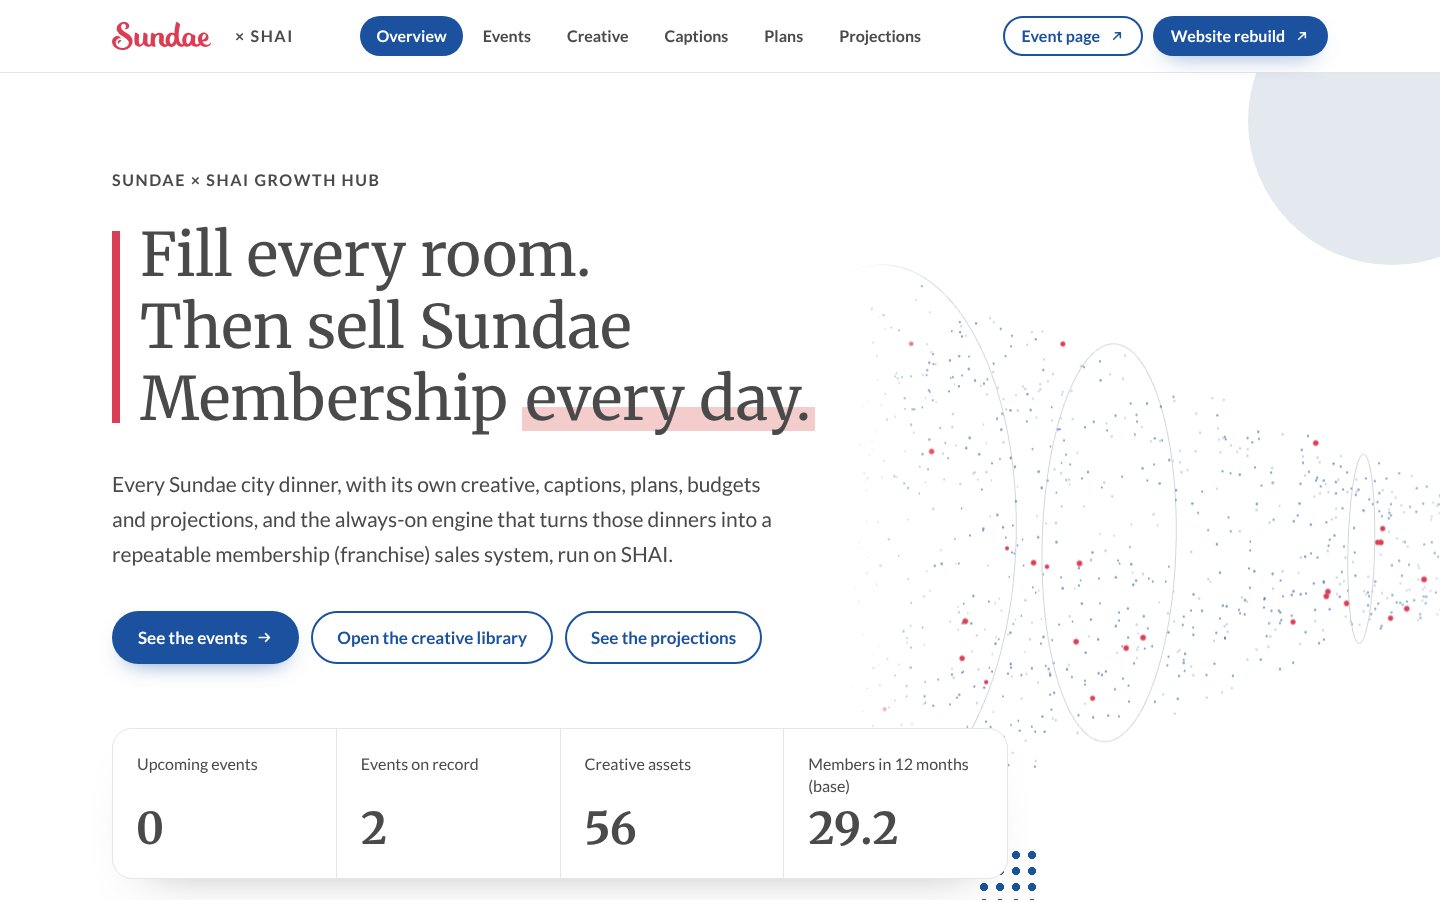
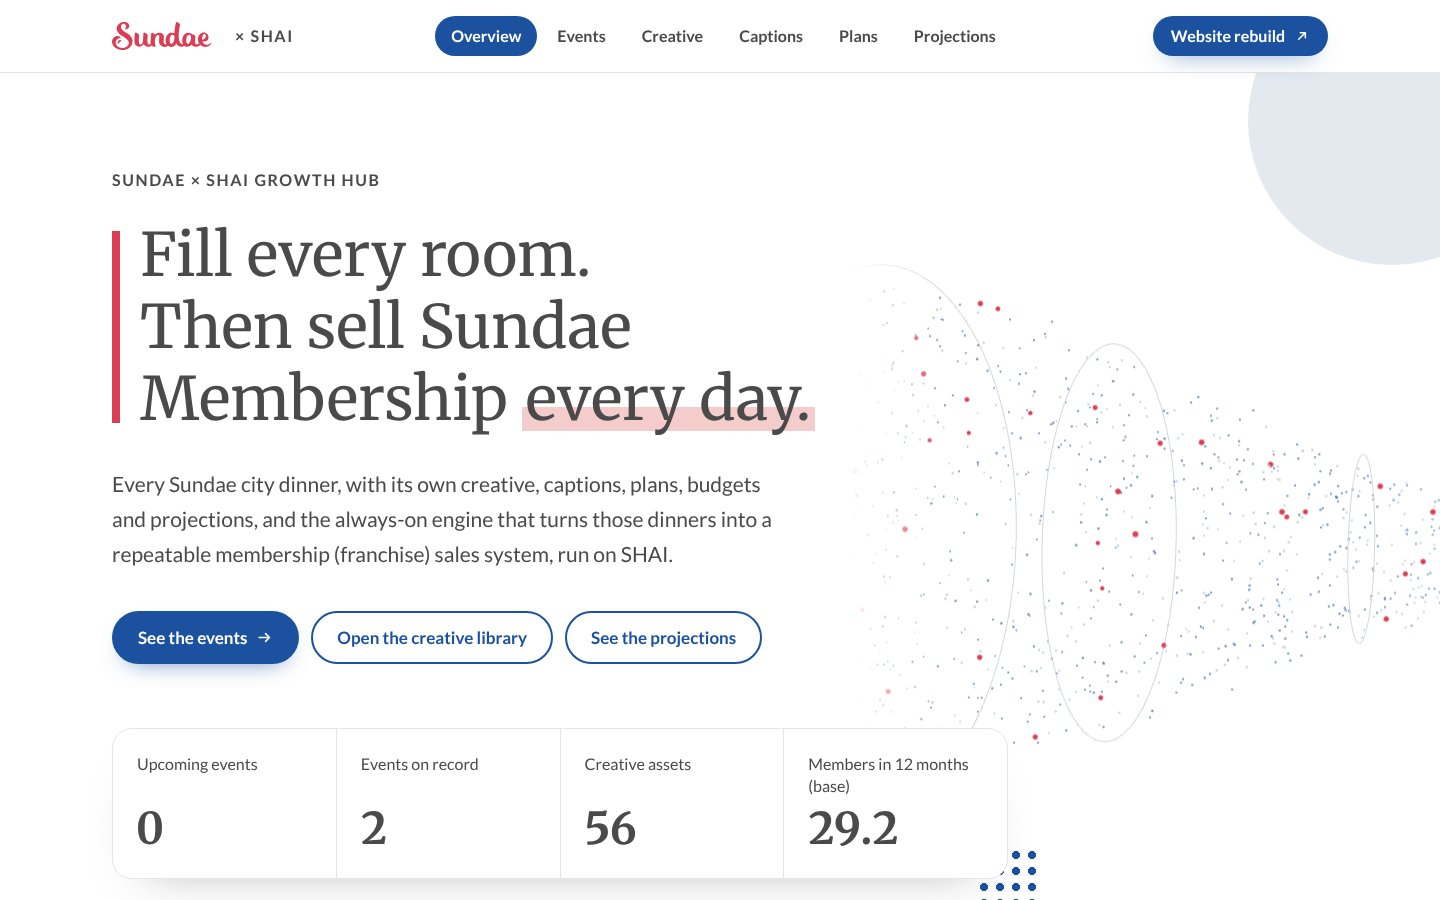
WIP: site review round two (library note, plan tag wrap, named table regions, add-event heading, change form names, per-event RSVP button, event bar landmark, fresh overview shot)
Claude-Session: https://claude.ai/code/session_01CMLqEovxq3nT6y22MUNcuu

diff --git a/src/app/creative/page.tsx b/src/app/creative/page.tsx
@@ -1,22 +1,35 @@
 import type { Metadata } from "next";
 import Image from "next/image";
 import Link from "next/link";
+import Script from "next/script";
 import CreativeLibrary from "@/components/CreativeLibrary";
 import { Icon } from "@/components/Icon";
-import { getCaptions, getCities, getEvents, getLibrary, getRequests, libraryCount } from "@/lib/content";
+import { getCaptions, getCities, getEvent, getEvents, getLibrary, getRequests, libraryCount } from "@/lib/content";
 import { apDate } from "@/lib/format";
 
 export const metadata: Metadata = { title: "Creative library" };
 
 // Before the hub went events-based this page was the Manhattan Beach library, so old shared links such as
-// /creative#flyers now land on the always-on set. While one of its sections is the URL's target, a note at the foot of
-// the screen points to the same section of each event's library (shown by the .lib-note rule in globals.css, no script).
-const KIND_NAMES = { images: "images", flyers: "flyers", videos: "videos", reels: "Reels" } as const;
+// /creative#flyers land on the always-on section of the same name. A note at the foot of the screen (bottom right from
+// 768px, clear of the first card in each grid) then points to that section of the Manhattan Beach library. It opens
+// only when the page is opened at one of those sections (an old link), never from the page's own section buttons,
+// because the script below runs once, after the page loads; it closes with Hide or the first move to another section.
+// Its link is a plain <a> because the script adds the section to it.
+const OLD = "manhattan-beach-2026-10-08"; // as in next.config.ts
+const NOTE_JS = `(() => {
+  const k = location.hash.slice(1), n = document.getElementById("old-link-note");
+  if (!n || !["images", "flyers", "videos", "reels"].includes(k)) return;
+  n.querySelector("a").hash = k; n.hidden = false;
+  const hide = () => { n.hidden = true; };
+  n.querySelector("button").addEventListener("click", hide);
+  addEventListener("hashchange", hide, { once: true });
+})();`;
 
 // The always-on membership creative, with each event's library one click away at the top.
 export default function Creative() {
   const events = getEvents().filter((e) => e.kind === "campaign");
   const cities = getCities();
+  const old = getEvent(OLD);
   return (
     <main className="mx-auto max-w-7xl px-5 md:px-8">
       <CreativeLibrary scope="brand" lib={getLibrary("brand")} base="/media" requests={getRequests("brand")}
@@ -41,16 +54,16 @@ export default function Creative() {
           )}
           <h2 className="display h-bar mt-16 text-[2rem] md:text-[2.5rem]">Always-on: Sundae Membership</h2>
         </>} />
-      {events.length > 0 && Object.entries(KIND_NAMES).map(([k, name]) => (
-        <aside key={k} data-for={k} aria-label={`Event ${name}`} className="lib-note fixed inset-x-4 bottom-4 z-40 flex-wrap items-center gap-x-5 gap-y-3 rounded-[1.25rem] border border-gray bg-white p-4 text-base leading-snug shadow-[0_24px_48px_-24px_rgba(74,74,74,.5)] md:inset-x-auto md:left-1/2 md:w-max md:max-w-[calc(100vw-4rem)] md:-translate-x-1/2 md:px-5">
-          <p className="min-w-0 flex-1 basis-60 md:max-w-sm">These are the always-on Sundae Membership {name}. Each event&apos;s {name} are in its own library.</p>
+      {old && (
+        <aside id="old-link-note" hidden aria-label={`${old.city} library`} className="fixed inset-x-4 bottom-4 z-40 flex flex-wrap items-center gap-x-5 gap-y-3 rounded-[1.25rem] border border-gray bg-white p-4 text-base leading-snug shadow-[0_24px_48px_-24px_rgba(74,74,74,.5)] md:inset-x-auto md:bottom-6 md:right-8 md:w-max md:max-w-[calc(100vw-4rem)] md:px-5">
+          <p className="min-w-0 flex-1 basis-60 md:max-w-sm">This link used to open the {old.city} library, which has moved to the event&apos;s page.</p>
           <div className="flex flex-wrap items-center gap-2.5">
-            {events.map((e) => <Link key={e.slug} href={`/events/${e.slug}/creative#${k}`} className="btn btn-blue btn-sm">{e.city} · {apDate(e.date, { year: false })} <Icon name="arrow-right" /></Link>)}
-            {/* a fragment that names no element: the section stops being the target, so the note hides and the page stays put */}
-            <a href="#note-hidden" className="link px-1.5">Hide</a>
+            <a href={`/events/${OLD}/creative`} className="btn btn-blue btn-sm">{old.city} library <Icon name="arrow-right" /></a>
+            <button type="button" className="link px-1.5">Hide</button>
           </div>
         </aside>
-      ))}
+      )}
+      <Script id="old-link-note-js">{NOTE_JS}</Script>
     </main>
   );
 }

diff --git a/src/components/Nav.tsx b/src/components/Nav.tsx
@@ -2,16 +2,27 @@
 import Link from "next/link";
 import Image from "next/image";
 import { usePathname } from "next/navigation";
-import { useState } from "react";
+import { useEffect, useState } from "react";
 import { LINKS } from "@/content/library";
+import { isUpcoming } from "@/lib/format";
 import { Icon } from "./Icon";
 
 const items = [["/", "Overview"], ["/events", "Events"], ["/creative", "Creative"], ["/captions", "Captions"], ["/plans/membership-organic", "Plans"], ["/projections", "Projections"]];
 export type NavLink = { href: string; title: string };
+export type NavEvent = NavLink & { date: string; rsvp?: string };
 
-export default function Nav({ plans, events }: { plans: NavLink[]; events: NavLink[] }) {
+export default function Nav({ plans, events, builtAt }: { plans: NavLink[]; events: NavEvent[]; builtAt: number }) {
   const path = usePathname();
   const [open, setOpen] = useState(false);
+  // The RSVP button follows the events, so it never points at a past dinner's form by default: on an event's pages it is
+  // that event's RSVP page (none if it has none); elsewhere it is the next upcoming event's (none if no upcoming event has
+  // one). "Upcoming" is worked out in the browser, like the other date-aware labels (first paint: build date). The visible
+  // label stays short so the header fits from 768px; its name and tooltip say which event.
+  const [now, setNow] = useState(builtAt);
+  useEffect(() => setNow(Date.now()), []);
+  const here = events.find((e) => path === e.href || path.startsWith(`${e.href}/`));
+  const ev = here ?? events.filter((e) => e.rsvp && isUpcoming(e.date, now)).sort((a, b) => a.date.localeCompare(b.date))[0];
+  const rsvp = ev?.rsvp ? { href: ev.rsvp, name: `RSVP page for ${ev.title}` } : null;
   const isOn = (href: string) => (href === "/" ? path === "/" : path.startsWith(href.split("/").slice(0, 2).join("/")));
   return (
     <header className="sticky top-0 z-50 border-b border-gray bg-white/95 backdrop-blur-xl">
@@ -27,7 +38,7 @@ export default function Nav({ plans, events }: { plans: NavLink[]; events: NavLi
           ))}
         </div>
         <div className="hidden items-center gap-2.5 md:flex">
-          <a href={LINKS.event} target="_blank" rel="noopener" className="btn btn-outline btn-sm">Event page <Icon name="external" /></a>
+          {rsvp && <a href={rsvp.href} target="_blank" rel="noopener" aria-label={rsvp.name} title={rsvp.name} className="btn btn-outline btn-sm">RSVP page <Icon name="external" /></a>}
           <a href={LINKS.rebuild} target="_blank" rel="noopener" className="btn btn-blue btn-sm">Website rebuild <Icon name="external" /></a>
           <button className="btn btn-outline btn-sm xl:hidden" onClick={() => setOpen(!open)} aria-expanded={open} aria-controls="mnav">{open ? "Close" : "Menu"}</button>
         </div>
@@ -45,7 +56,7 @@ export default function Nav({ plans, events }: { plans: NavLink[]; events: NavLi
               <span className="eyebrow px-3 pb-1">Membership plans</span>
               {plans.map((p) => <Link key={p.href} href={p.href} onClick={() => setOpen(false)} className="rounded-xl px-3 py-2 text-base hover:bg-mist">{p.title}</Link>)}
             </div>
-            <div className="mt-4 flex flex-wrap gap-2.5 md:hidden"><a href={LINKS.event} className="btn btn-outline btn-sm">Event page <Icon name="external" /></a><a href={LINKS.rebuild} className="btn btn-blue btn-sm">Website rebuild <Icon name="external" /></a></div>
+            <div className="mt-4 flex flex-wrap gap-2.5 md:hidden">{rsvp && <a href={rsvp.href} aria-label={rsvp.name} title={rsvp.name} className="btn btn-outline btn-sm">RSVP page <Icon name="external" /></a>}<a href={LINKS.rebuild} className="btn btn-blue btn-sm">Website rebuild <Icon name="external" /></a></div>
           </div>
         </div>
       )}

diff --git a/src/components/Charts.tsx b/src/components/Charts.tsx
@@ -75,12 +75,12 @@ function Legend({ series, bar }: { series: Series[]; bar?: boolean }) {
   );
 }
 
-function Table({ labels, series, fmt, decimals }: { labels: string[]; series: Series[]; fmt: (v: number) => string; decimals?: boolean }) {
+function Table({ title, labels, series, fmt, decimals }: { title: string; labels: string[]; series: Series[]; fmt: (v: number) => string; decimals?: boolean }) {
   // when a column holds decimals, show every value with one decimal so the column lines up (18.0, not 18)
   const one = (v: number) => v.toLocaleString("en-US", { minimumFractionDigits: 1, maximumFractionDigits: 1 });
   const f = (s: Series) => (decimals && s.values.some((v) => !Number.isInteger(v)) ? one : fmt);
   return (
-    <div className="scroll-x">
+    <div className="scroll-x" tabIndex={0} role="region" aria-label={`${title} table`}>
       <table className="dtable min-w-[520px]">
         <thead><tr><th>Month</th>{series.map((s) => <th key={s.name} className="!text-right">{s.name}</th>)}</tr></thead>
         <tbody>{labels.map((l, i) => <tr key={l}><td>{monthFull(l)}</td>{series.map((s) => <td key={s.name} className="text-right">{f(s)(s.values[i])}</td>)}</tr>)}</tbody>
@@ -144,7 +144,7 @@ export function LineChart({ title, sub, labels, series, format = "number", heigh
       <Head title={title} sub={sub} table={table} setTable={setTable} />
       {series.length > 1 && <div className="mb-4"><Legend series={series} /></div>}
       <div ref={box}>
-        {table ? <Table labels={labels} series={series} fmt={fmt.full} decimals={format === "number"} /> : (
+        {table ? <Table title={title} labels={labels} series={series} fmt={fmt.full} decimals={format === "number"} /> : (
           <div className="relative" style={{ height: H }}>
             <svg ref={svgRef} viewBox={`0 0 ${W} ${H}`} width="100%" height={H} className="tnum block touch-none" onPointerMove={onMove} onPointerLeave={() => setHover(null)} role="img" aria-label={`${title}. ${series.map((s) => `${s.name}: ${fmt.full(s.values[s.values.length - 1])} by ${monthFull(labels[labels.length - 1])}`).join("; ")}`}>
               {ticks.map((t, k) => (
@@ -190,7 +190,7 @@ export function StackedBars({ title, sub, labels, series, format = "number", hei
       <Head title={title} sub={sub} table={table} setTable={setTable} />
       <div className="mb-4"><Legend series={series} bar /></div>
       <div ref={box}>
-        {table ? <Table labels={labels} series={[...series, { name: "Total", color: INK, values: totals }]} fmt={fmt.full} decimals={format === "number"} /> : (
+        {table ? <Table title={title} labels={labels} series={[...series, { name: "Total", color: INK, values: totals }]} fmt={fmt.full} decimals={format === "number"} /> : (
           <div className="relative" style={{ height: H }}>
             <svg viewBox={`0 0 ${W} ${H}`} width="100%" height={H} className="tnum block" role="img" aria-label={`${title}. Total by ${monthFull(labels[labels.length - 1])}: ${fmt.full(totals[totals.length - 1])}`} onPointerLeave={() => setHover(null)}>
               {ticks.map((t, k) => <g key={t}><line x1={padL} x2={W - padR} y1={y(t)} y2={y(t)} stroke={k === 0 ? BASELINE : GRID} strokeWidth={k === 0 ? 1.5 : 1} /><text x={padL - 10} y={y(t)} textAnchor="end" dominantBaseline="middle" fontSize={FS} fill={INK}>{fmt.short(t)}</text></g>)}

diff --git a/src/lib/plan.ts b/src/lib/plan.ts
@@ -4,21 +4,35 @@ import { marked } from "marked";
 // - arrow glyphs are not in the Lato/Merriweather web subsets, so they render as a line icon that reads as "to";
 // - AP times ("7:30-7:35 p.m.", "10:30 p.m. +") and short dates ("Oct. 8") never split across lines;
 // - short code chips (SHAI agent names such as /ghl-voice-agent-builder) stay on one line;
-// - tables scroll inside their own box (with an edge shadow cue) instead of widening the page.
+// - tables scroll inside their own box (with an edge shadow cue) instead of widening the page. The box is a named,
+//   focusable region so the keyboard can scroll it too; its name is the heading the table sits under ("Run of show table"),
+//   numbered if a heading has more than one, so no two regions on a page share a name.
 const GLYPHS: Record<string, [string, string]> = { "→": ["arrow", "to"], "←": ["arrow-left", "from"], "↔": ["arrow-lr", "back and forth"] };
 // The text rules run only on the text between tags, never inside a tag or an attribute (a title or alt stays untouched).
 const polishText = (t: string) => t
   .replace(/[→←↔]/g, (g) => `<span class="ico ico-${GLYPHS[g][0]}" role="img" aria-label="${GLYPHS[g][1]}"></span>`)
   .replace(/\b\d{1,2}(?::\d{2})?(?:-\d{1,2}(?::\d{2})?)? [ap]\.m\.(?: \+)?/g, (m) => `<span class="nw">${m}</span>`)
   .replace(/\b(Jan|Feb|Aug|Sept|Oct|Nov|Dec)\. (\d{1,2})\b/g, "$1.&nbsp;$2");
+// A heading's text for an attribute: arrow icons read as their label, other tags and the section number ("5. ") dropped,
+// entities left escaped.
+const headingText = (h: string) => h.replace(/<span class="ico[^"]*" role="img" aria-label="([^"]*)"><\/span>/g, " $1 ").replace(/<[^>]*>/g, "").replace(/\s+/g, " ").trim().replace(/^\d+(\.\d+)*\.? /, "");
+function wrapTables(html: string) {
+  let heading = "", n = 0;
+  const used = new Map<string, number>();
+  return html.replace(/<h[2-4][^>]*>([\s\S]*?)<\/h[2-4]>|<table>/g, (m, h?: string) => {
+    if (h !== undefined) { heading = headingText(h); return m; }
+    const base = heading ? `${heading} table` : `Table ${++n}`;
+    const k = (used.get(base) ?? 0) + 1;
+    used.set(base, k);
+    return `<div class="scroll-x table-scroll" tabindex="0" role="region" aria-label="${k > 1 ? `${base} ${k}` : base}"><table>`;
+  }).replace(/<\/table>/g, "</table></div>");
+}
 function polish(html: string) {
-  return html
+  return wrapTables(html
     .split(/(<[^>]*>)/)
     .map((part, i) => (i % 2 ? part : polishText(part)))
     .join("")
-    .replace(/(?<!<pre>)<code>([^<\s]{1,32})<\/code>/g, '<code class="nw">$1</code>')
-    .replace(/<table>/g, '<div class="scroll-x table-scroll"><table>')
-    .replace(/<\/table>/g, "</table></div>");
+    .replace(/(?<!<pre>)<code>([^<\s]{1,32})<\/code>/g, '<code class="nw">$1</code>'));
 }
 
 // A line that opens with a bold label ("**When:** …") starts on its own line instead of running on from the previous one

diff --git a/src/components/ChangeBox.tsx b/src/components/ChangeBox.tsx
@@ -6,6 +6,8 @@ import { Icon } from "./Icon";
 // workflow in GitHub; the workflow edits this asset's source, re-renders it, checks it against the brand rules and
 // pushes, and the site redeploys with the new file (an update) or a new card beside this one (a variation).
 type Mode = "update" | "variant";
+// The form's name carries the asset's kind and id ("Meet your host, image 02"), since an image and a video can share a title
+const KIND: Record<string, string> = { images: "image", flyers: "flyer", videos: "video", reels: "Reel" };
 // "sent" keeps the mode the request went out with, so the confirmation stays right if the radio is changed afterwards
 type State = { kind: "idle" | "sending" } | { kind: "sent"; id: string; mode: Mode } | { kind: "error"; msg: string; offline?: boolean };
 
@@ -17,6 +19,7 @@ export default function ChangeBox({ asset, title, video = false }: { asset: stri
   const [st, setSt] = useState<State>({ kind: "idle" });
   const [copied, setCopied] = useState(false);
   const busy = st.kind === "sending";
+  const [kind, id] = asset.split("/").slice(-2);
 
   async function send(e: React.FormEvent) {
     e.preventDefault();
@@ -36,7 +39,7 @@ export default function ChangeBox({ asset, title, video = false }: { asset: stri
   };
 
   return (
-    <form onSubmit={send} className="border-t border-gray bg-mist px-6 pb-6 pt-5" aria-label={`Request a change to ${title}`}>
+    <form onSubmit={send} className="border-t border-gray bg-mist px-6 pb-6 pt-5" aria-label={`Request a change to ${title}, ${KIND[kind] ?? kind} ${id}`}>
       <label htmlFor={`${uid}-t`} className="text-base font-bold">Request a change</label>
       {/* three rows for videos: their longer example wraps to three lines in the narrow Reel cards (768-1279px) */}
       <textarea id={`${uid}-t`} value={text} onChange={(e) => setText(e.target.value)} rows={video ? 3 : 2} maxLength={500} required minLength={3}

diff --git a/src/app/globals.css b/src/app/globals.css
@@ -140,11 +140,9 @@ html.lenis, html.lenis body { height: auto; }
 .prose-plan :where(pre code) { background: transparent; border: 0; padding: 0; font-weight: 400; font-size: 1rem; }
 .prose-plan :where(hr) { border-top-width: 1px; }
 
-/* /creative: the note for old shared links into a library section (src/app/creative/page.tsx), shown only while that
-   section is the URL's target. Unlayered, so it wins over the note's own Tailwind classes. */
-.lib-note { display: none; }
-body:has(#images:target) .lib-note[data-for="images"], body:has(#flyers:target) .lib-note[data-for="flyers"],
-body:has(#videos:target) .lib-note[data-for="videos"], body:has(#reels:target) .lib-note[data-for="reels"] { display: flex; }
+/* /creative: while the old-link note is open (src/app/creative/page.tsx), the footer gets room so the note never covers it */
+body:has(#old-link-note:not([hidden])) footer { padding-bottom: 10rem; }
+@media (min-width: 768px) { body:has(#old-link-note:not([hidden])) footer { padding-bottom: 6.5rem; } }
 
-a:focus-visible, button:focus-visible, input:focus-visible, select:focus-visible, textarea:focus-visible, summary:focus-visible { outline: 3px solid var(--color-blue); outline-offset: 3px; }
+a:focus-visible, button:focus-visible, input:focus-visible, select:focus-visible, textarea:focus-visible, summary:focus-visible, .scroll-x:focus-visible { outline: 3px solid var(--color-blue); outline-offset: 3px; }
 @media (prefers-reduced-motion: reduce) { [data-reveal], [data-stagger] > * { opacity: 1 !important; transform: none !important; } }

diff --git a/src/components/NewEventSteps.tsx b/src/components/NewEventSteps.tsx
@@ -1,4 +1,5 @@
 // How a new event gets its page: shown on the Events page (and as the empty state when nothing is booked).
+// It is its own section on both pages that show it, so its heading is an h2 (id "add-event", for the section's label).
 export default function NewEventSteps({ compact = false }: { compact?: boolean }) {
   const steps: [string, string][] = [
     ["Ask for a new event", "In Sundae's Claude workspace, say “New Sundae event” with the date and the city (the venue and start time too, if they're set). Claude asks only for what's missing."],
@@ -9,7 +10,7 @@ export default function NewEventSteps({ compact = false }: { compact?: boolean }
     <div className={`card-mist grid gap-8 p-8 md:p-12 ${compact ? "" : "lg:grid-cols-[1fr_1.6fr]"}`}>
       <div>
         <p className="eyebrow">Adding an event</p>
-        <h3 className="display h-bar mt-4 text-[1.75rem] md:text-[2.125rem]">Give a date and a city. The page builds itself.</h3>
+        <h2 id="add-event" className="display h-bar mt-4 text-[1.75rem] md:text-[2.125rem]">Give a date and a city. The page builds itself.</h2>
       </div>
       <ol className="grid gap-6">
         {steps.map(([t, d], i) => (

diff --git a/src/app/projections/page.tsx b/src/app/projections/page.tsx
@@ -68,7 +68,7 @@ export default function Projections() {
           {KS_PHONE.map((k) => <ScenarioCard key={k} k={k} sub={`${money(P.engine[k].assumptions.budget)} a month in ads`} rows={sumRows.map(([l, key, f]) => [l, f(P.engine[k].summary[key] as number)])} />)}
           <p className="text-base leading-relaxed">{REV_NOTE}</p>
         </div>
-        <div className="card scroll-x mt-6 hidden p-6 md:block md:p-7">
+        <div className="card scroll-x mt-6 hidden p-6 md:block md:p-7" tabIndex={0} role="region" aria-label="12-month summary by scenario">
           <table className="dtable min-w-[640px]">
             <thead><tr><th>12-month summary</th>{KS.map((k) => <th key={k} className="!text-right"><span className="inline-flex items-center gap-2"><Key k={k} />{SCENARIO[k].name}</span><span className="block font-normal">{money(P.engine[k].assumptions.budget)} a month</span></th>)}</tr></thead>
             <tbody>{sumRows.map(([l, key, f]) => <tr key={l}><td>{l}</td>{KS.map((k) => <td key={k} className={`text-right ${k === "base" ? "font-bold" : ""}`}>{f(P.engine[k].summary[key] as number)}</td>)}</tr>)}</tbody>

diff --git a/src/app/events/[slug]/projections/page.tsx b/src/app/events/[slug]/projections/page.tsx
@@ -39,7 +39,7 @@ export default async function EventProjectionsPage({ params }: { params: Promise
             <div className="grid gap-4 md:hidden">
               {KS_PHONE.map((k) => <ScenarioCard key={k} k={k} rows={ROWS.map(([l, key, f]) => [l, f(pj.scenarios[k][key])])} />)}
             </div>
-            <div className="card scroll-x hidden p-6 md:block md:p-7">
+            <div className="card scroll-x hidden p-6 md:block md:p-7" tabIndex={0} role="region" aria-label="Three scenarios table">
               <table className="dtable min-w-[560px]">
                 <thead><tr><th />{KS.map((k) => <th key={k} className="!text-right"><span className="inline-flex items-center gap-2"><Key k={k} />{SCENARIO[k].name}</span></th>)}</tr></thead>
                 <tbody>{ROWS.map(([l, key, f]) => <tr key={l}><td>{l}</td>{KS.map((k) => <td key={k} className={`text-right ${k === "base" ? "font-bold" : ""}`}>{f(pj.scenarios[k][key])}</td>)}</tr>)}</tbody>

diff --git a/src/app/layout.tsx b/src/app/layout.tsx
@@ -23,7 +23,8 @@ export default function RootLayout({ children }: { children: React.ReactNode }) 
     <html lang="en" className={`${merriweather.variable} ${lato.variable}`}>
       <body className="min-h-screen">
         <ScrollFx />
-        <Nav plans={getBrandPlans().map((p) => ({ href: `/plans/${p.slug}`, title: p.title }))} events={getEvents().map((e) => ({ href: `/events/${e.slug}`, title: `${e.city} · ${apDate(e.date)}` }))} />
+        <Nav plans={getBrandPlans().map((p) => ({ href: `/plans/${p.slug}`, title: p.title }))} builtAt={Date.now()}
+          events={getEvents().map((e) => ({ href: `/events/${e.slug}`, title: `${e.city} · ${apDate(e.date)}`, date: e.date, rsvp: e.rsvp }))} />
         {children}
         <footer className="mt-28 border-t border-gray bg-mist">
           <div className="mx-auto flex max-w-7xl flex-wrap items-start justify-between gap-x-10 gap-y-3 px-5 py-12 text-base leading-relaxed md:px-8">

diff --git a/src/components/Calculator.tsx b/src/components/Calculator.tsx
@@ -79,7 +79,8 @@ export default function Calculator() {
           ))}
         </div>
         <LineChart title="Cumulative members — your inputs" sub="Signed Sundae Members, by month" labels={MONTHS} series={[{ name: "Your scenario", color: SERIES.blue, values: r.rows.map((x) => +x.cum.toFixed(1)) }]} />
-        <div className="card scroll-x p-6 md:p-7">
+        {/* scrolls sideways on phones, so it is a named, focusable region the keyboard can scroll */}
+        <div className="card scroll-x p-6 md:p-7" tabIndex={0} role="region" aria-label="Month-by-month results for your inputs">
           <table className="dtable min-w-[640px]">
             <thead><tr>{["Month", "Leads", "Per day", "Calls held", "FDDs", "Signed", "Members", "Revenue (cumulative)"].map((h) => <th key={h} className="!text-right first:!text-left last:!pr-0">{h}</th>)}</tr></thead>
             <tbody>{r.rows.map((x) => (

diff --git a/src/app/events/[slug]/layout.tsx b/src/app/events/[slug]/layout.tsx
@@ -17,7 +17,7 @@ export default async function EventLayout({ children, params }: { children: Reac
   const city = getCities()[e.citySlug];
   return (
     <>
-      <div className="border-b border-gray bg-mist">
+      <section aria-label={`${e.city} event`} className="border-b border-gray bg-mist">
         <div className="mx-auto max-w-7xl px-5 pb-5 pt-6 md:px-8">
           <Link href="/events" className="inline-flex items-center gap-1.5 text-base font-bold text-blue"><Icon name="arrow-left" />All events</Link>
           <div className="mt-4 flex flex-wrap items-center justify-between gap-x-8 gap-y-4">
@@ -31,7 +31,7 @@ export default async function EventLayout({ children, params }: { children: Reac
             {e.kind === "campaign" && <EventTabs slug={e.slug} firstPlan={e.plans[0]?.slug} />}
           </div>
         </div>
-      </div>
+      </section>
       {children}
     </>
   );
